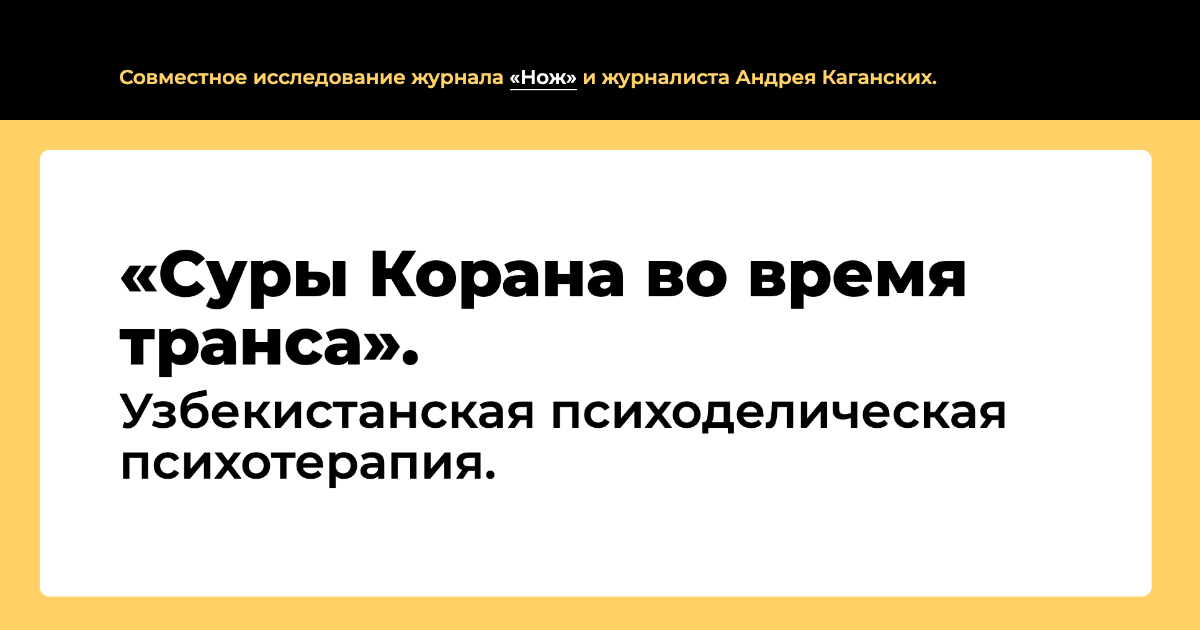
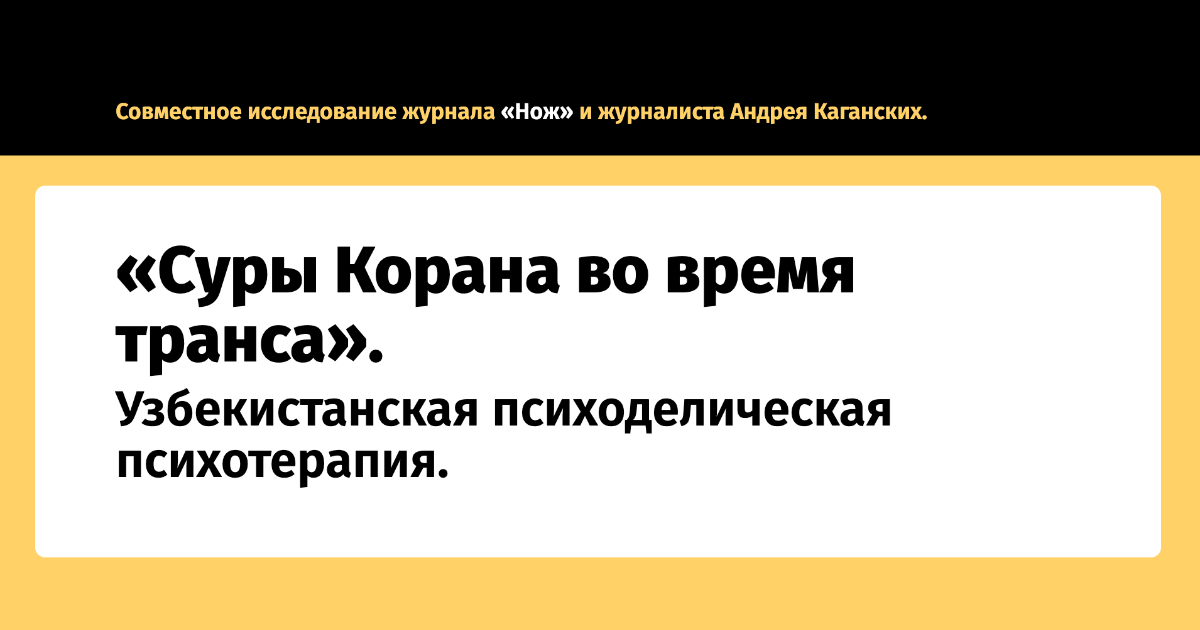
fix uzbekistan poster

Changed region(s): [[0.0, 0.0905, 1.0, 0.9651], [0.0925, 0.3921, 0.8633, 0.7841]]

diff --git a/uzbekistan/index.html b/uzbekistan/index.html
@@ -27,7 +27,7 @@
 
     <section>
         <article data-header>
-            <h1>«Cуры Корана во время транса».<em>Узбекистанская психоделическая психотерапия.</em></h1>
+            <h1>«Cуры Корана во время транса».<em>Узбекистанская психоделическая психотерапия</em></h1>
 
             <aside>
                 <a data-label="vkontakte" href="https://vk.com/share.php?url=https://pandemic-research.github.io/uzbekistan/" target="_blank">
@@ -63,7 +63,7 @@
                 </a>
             </aside>
 
-            <p>Раньше кетамин использовали в основном для анестезии, а теперь он <a href="https://www.wired.com/story/ketamine-stirs-up-hope-controversy-as-a-depression-drug/" target="_blank" rel="noopener"></a>стал</a> одним из самых перспективных психоделических лекарств от депрессии. В России, <a href="https://knife.media/esketamine-nasal-spray/" target="_blank" rel="noopener"></a>в отличие от США</a> и некоторых стран бывшего СССР, такая терапия всё еще под запретом (как и покупка-продажа этого вещества). Журналист Андрей Каганских поговорил с узбекистанским психиатром, консультантом Управления ООН по наркотикам и преступности Азизбеком Болтаевым о том, как в последние два года с его подачи Узбекистан приблизился к легализации психоделической психотерапии с кетамином, об отношении к наркотическим лекарствам в исламе и птичьем языке диссоциативных образов.</p>
+            <p>Раньше кетамин использовали в основном для анестезии, а теперь он <a href="https://www.wired.com/story/ketamine-stirs-up-hope-controversy-as-a-depression-drug/" target="_blank" rel="noopener">стал</a> одним из самых перспективных психоделических лекарств от депрессии. В России, <a href="https://knife.media/esketamine-nasal-spray/" target="_blank" rel="noopener">в отличие от США</a> и некоторых стран бывшего СССР, такая терапия всё еще под запретом (как и покупка-продажа этого вещества). Журналист Андрей Каганских поговорил с узбекистанским психиатром, консультантом Управления ООН по наркотикам и преступности Азизбеком Болтаевым о том, как в последние два года с его подачи Узбекистан приблизился к легализации психоделической психотерапии с кетамином, об отношении к наркотическим лекарствам в исламе и птичьем языке диссоциативных образов.</p>
         </article>
 
         <article data-disclaimer>
